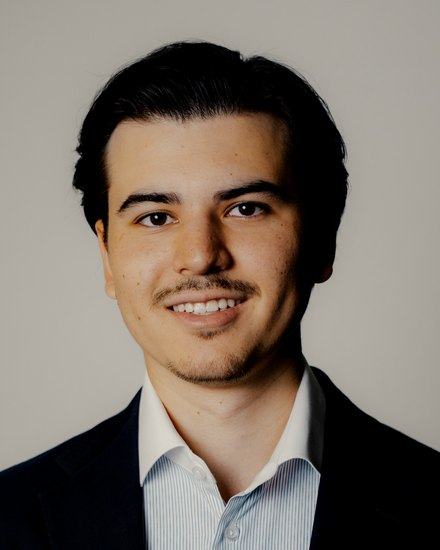
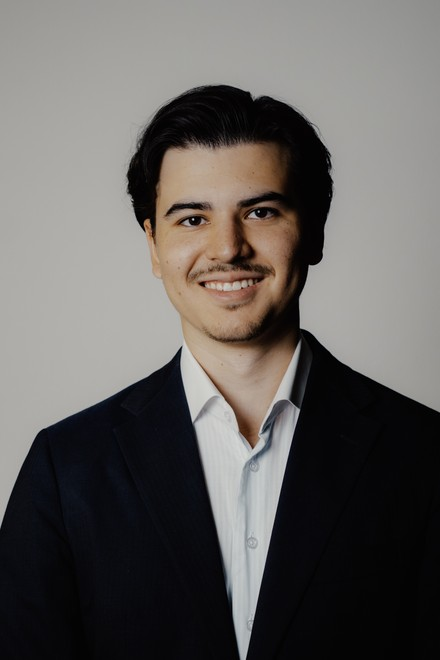
Portrait unbearbeitet im vollen Format, Wortmarke mit Kanji im Bild

diff --git a/assets/site.css b/assets/site.css
@@ -179,11 +179,15 @@
   /* ---------- Über ---------- */
   .ueber-grid { display: grid; grid-template-columns: 360px 1fr; gap: 76px; align-items: center; }
   @media (max-width: 900px) { .ueber-grid { grid-template-columns: 1fr; } }
-  .portrait { aspect-ratio: 4/5; background: linear-gradient(165deg, #1c1c1f, var(--ink)); display: flex; align-items: center; justify-content: center; position: relative; overflow: hidden; }
+  .portrait { aspect-ratio: 2/3; background: linear-gradient(165deg, #1c1c1f, var(--ink)); display: flex; align-items: center; justify-content: center; position: relative; overflow: hidden; }
   .portrait::after { content: '黒岩'; position: absolute; top: 18px; right: 20px; font-family: var(--serif); color: rgba(246,245,242,.14); font-size: 21px; letter-spacing: .2em; }
-  .portrait picture, .portrait img { position: absolute; inset: 0; width: 100%; height: 100%; display: block; object-fit: cover; object-position: 50% 30%; }
+  .portrait > picture, .portrait > picture img { position: absolute; inset: 0; width: 100%; height: 100%; display: block; object-fit: cover; }
   .portrait.mit-bild { background: var(--paper2); }
-  .portrait.mit-bild::after { color: rgba(11,11,12,.20); z-index: 2; }
+  .portrait.mit-bild::after { content: none; }
+  .bild-marke { position: absolute; top: 18px; right: 18px; z-index: 2; display: flex; align-items: center; gap: 11px; }
+  .bild-marke img { width: 82px; height: auto; display: block; opacity: .52; }
+  .bild-marke .strich { width: 1px; height: 17px; background: rgba(11,11,12,.3); }
+  .bild-marke .kanji { font-family: 'Hiragino Mincho ProN', 'Yu Mincho', Georgia, serif; font-size: 13.5px; letter-spacing: .16em; color: rgba(11,11,12,.55); line-height: 1; }
   .ueber p { color: #504e49; margin-bottom: 14px; max-width: 560px; }
   .ueber .punkte { margin: 26px 0; }
   .ueber .punkte div { padding: 14px 0; border-bottom: 1px solid var(--hair); display: flex; gap: 16px; font-size: 15.5px; }

diff --git a/fr/index.html b/fr/index.html
@@ -561,8 +561,12 @@
       <div class="portrait mit-bild">
         <picture>
           <source type="image/webp" srcset="../assets/brand/kaito-440.webp 440w, ../assets/brand/kaito-880.webp 880w" sizes="(max-width: 900px) 100vw, 360px">
-          <img src="../assets/brand/kaito-440.jpg" srcset="../assets/brand/kaito-440.jpg 440w, ../assets/brand/kaito-880.jpg 880w" sizes="(max-width: 900px) 100vw, 360px" width="440" height="550" loading="lazy" decoding="async" alt="Kaito Weingart, propriétaire de Kuroiwa Real Estate AG">
+          <img src="../assets/brand/kaito-440.jpg" srcset="../assets/brand/kaito-440.jpg 440w, ../assets/brand/kaito-880.jpg 880w" sizes="(max-width: 900px) 100vw, 360px" width="440" height="660" loading="lazy" decoding="async" alt="Kaito Weingart, propriétaire de Kuroiwa Real Estate AG">
         </picture>
+        <span class="bild-marke" aria-hidden="true">
+          <img src="../assets/brand/kuroiwa-wort-ink.png" alt="" width="520" height="97">
+          <span class="strich"></span><span class="kanji">黒岩</span>
+        </span>
       </div>
       <div class="ueber">
         <div class="label">À propos</div>

diff --git a/it/index.html b/it/index.html
@@ -561,8 +561,12 @@
       <div class="portrait mit-bild">
         <picture>
           <source type="image/webp" srcset="../assets/brand/kaito-440.webp 440w, ../assets/brand/kaito-880.webp 880w" sizes="(max-width: 900px) 100vw, 360px">
-          <img src="../assets/brand/kaito-440.jpg" srcset="../assets/brand/kaito-440.jpg 440w, ../assets/brand/kaito-880.jpg 880w" sizes="(max-width: 900px) 100vw, 360px" width="440" height="550" loading="lazy" decoding="async" alt="Kaito Weingart, titolare di Kuroiwa Real Estate AG">
+          <img src="../assets/brand/kaito-440.jpg" srcset="../assets/brand/kaito-440.jpg 440w, ../assets/brand/kaito-880.jpg 880w" sizes="(max-width: 900px) 100vw, 360px" width="440" height="660" loading="lazy" decoding="async" alt="Kaito Weingart, titolare di Kuroiwa Real Estate AG">
         </picture>
+        <span class="bild-marke" aria-hidden="true">
+          <img src="../assets/brand/kuroiwa-wort-ink.png" alt="" width="520" height="97">
+          <span class="strich"></span><span class="kanji">黒岩</span>
+        </span>
       </div>
       <div class="ueber">
         <div class="label">Chi siamo</div>

diff --git a/en/index.html b/en/index.html
@@ -561,8 +561,12 @@
       <div class="portrait mit-bild">
         <picture>
           <source type="image/webp" srcset="../assets/brand/kaito-440.webp 440w, ../assets/brand/kaito-880.webp 880w" sizes="(max-width: 900px) 100vw, 360px">
-          <img src="../assets/brand/kaito-440.jpg" srcset="../assets/brand/kaito-440.jpg 440w, ../assets/brand/kaito-880.jpg 880w" sizes="(max-width: 900px) 100vw, 360px" width="440" height="550" loading="lazy" decoding="async" alt="Kaito Weingart, owner of Kuroiwa Real Estate AG">
+          <img src="../assets/brand/kaito-440.jpg" srcset="../assets/brand/kaito-440.jpg 440w, ../assets/brand/kaito-880.jpg 880w" sizes="(max-width: 900px) 100vw, 360px" width="440" height="660" loading="lazy" decoding="async" alt="Kaito Weingart, owner of Kuroiwa Real Estate AG">
         </picture>
+        <span class="bild-marke" aria-hidden="true">
+          <img src="../assets/brand/kuroiwa-wort-ink.png" alt="" width="520" height="97">
+          <span class="strich"></span><span class="kanji">黒岩</span>
+        </span>
       </div>
       <div class="ueber">
         <div class="label">About</div>

diff --git a/index.html b/index.html
@@ -561,8 +561,12 @@
       <div class="portrait mit-bild">
         <picture>
           <source type="image/webp" srcset="assets/brand/kaito-440.webp 440w, assets/brand/kaito-880.webp 880w" sizes="(max-width: 900px) 100vw, 360px">
-          <img src="assets/brand/kaito-440.jpg" srcset="assets/brand/kaito-440.jpg 440w, assets/brand/kaito-880.jpg 880w" sizes="(max-width: 900px) 100vw, 360px" width="440" height="550" loading="lazy" decoding="async" alt="Kaito Weingart, Inhaber der Kuroiwa Real Estate AG">
+          <img src="assets/brand/kaito-440.jpg" srcset="assets/brand/kaito-440.jpg 440w, assets/brand/kaito-880.jpg 880w" sizes="(max-width: 900px) 100vw, 360px" width="440" height="660" loading="lazy" decoding="async" alt="Kaito Weingart, Inhaber der Kuroiwa Real Estate AG">
         </picture>
+        <span class="bild-marke" aria-hidden="true">
+          <img src="assets/brand/kuroiwa-wort-ink.png" alt="" width="520" height="97">
+          <span class="strich"></span><span class="kanji">黒岩</span>
+        </span>
       </div>
       <div class="ueber">
         <div class="label">Über</div>
